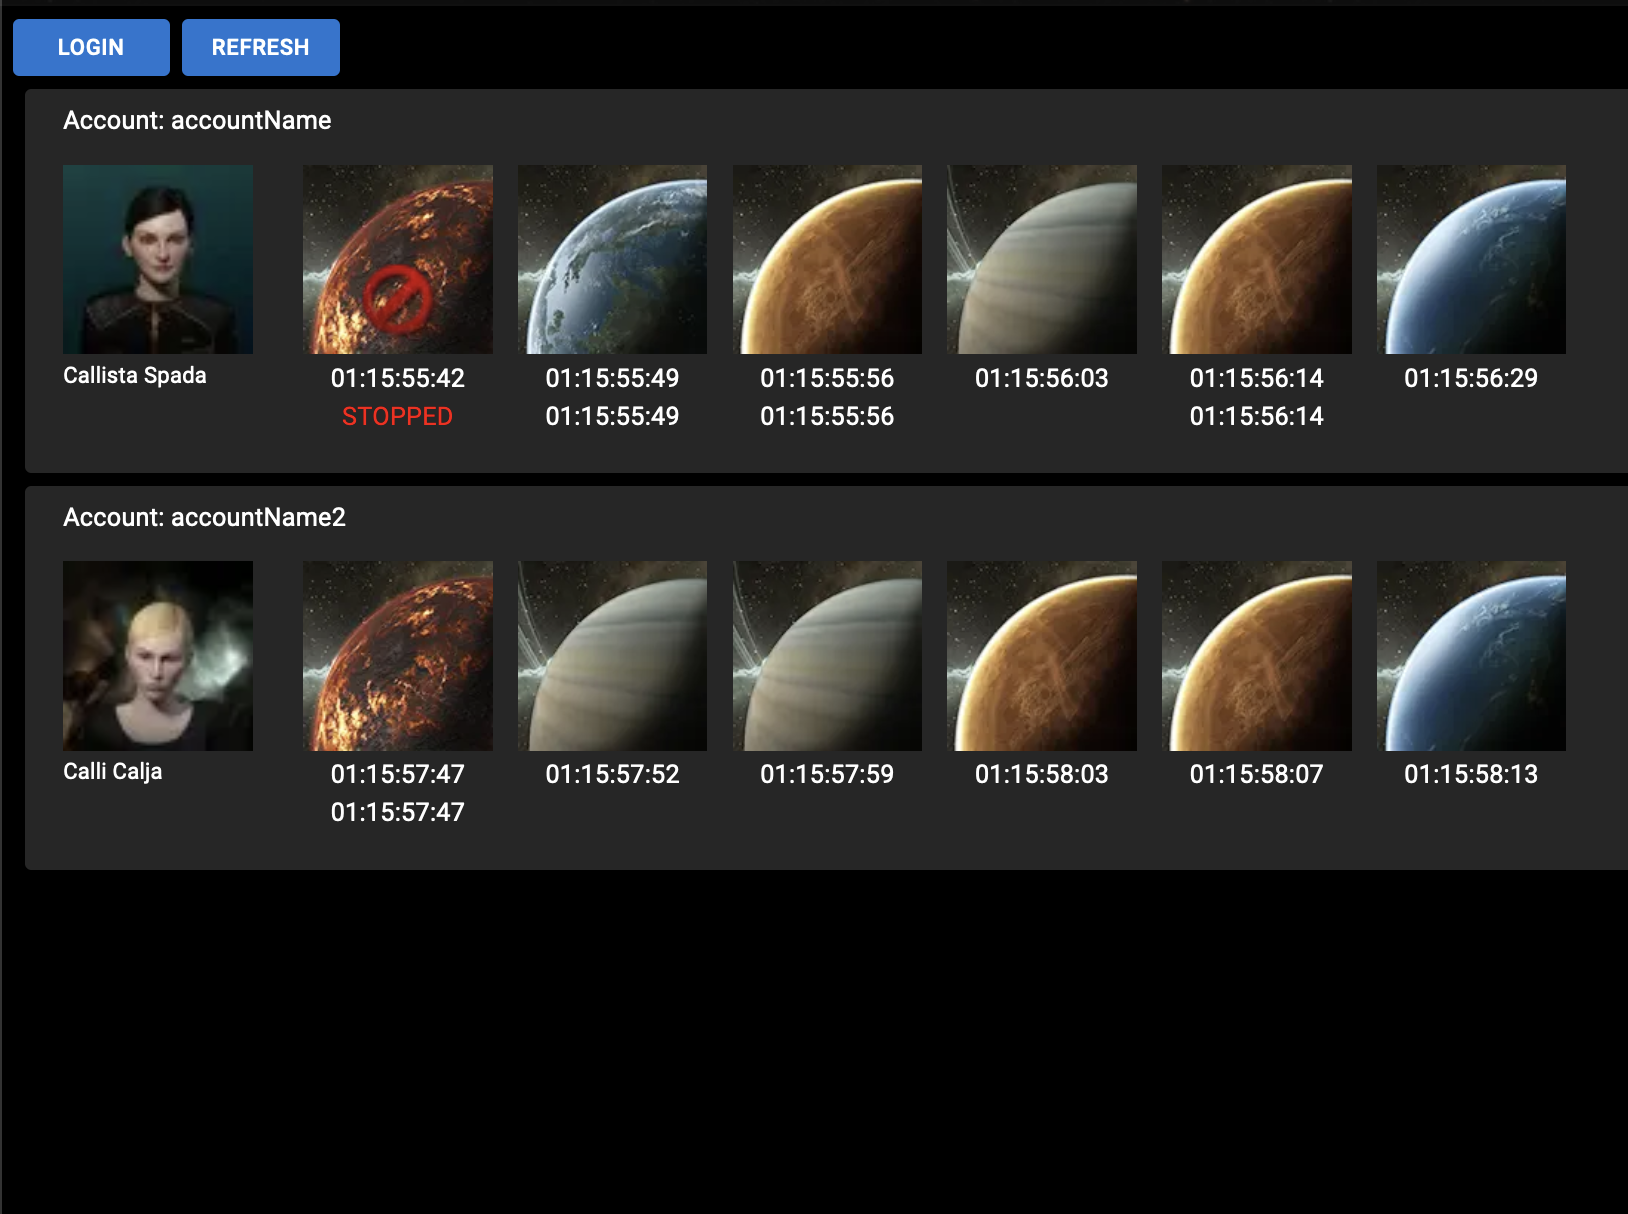
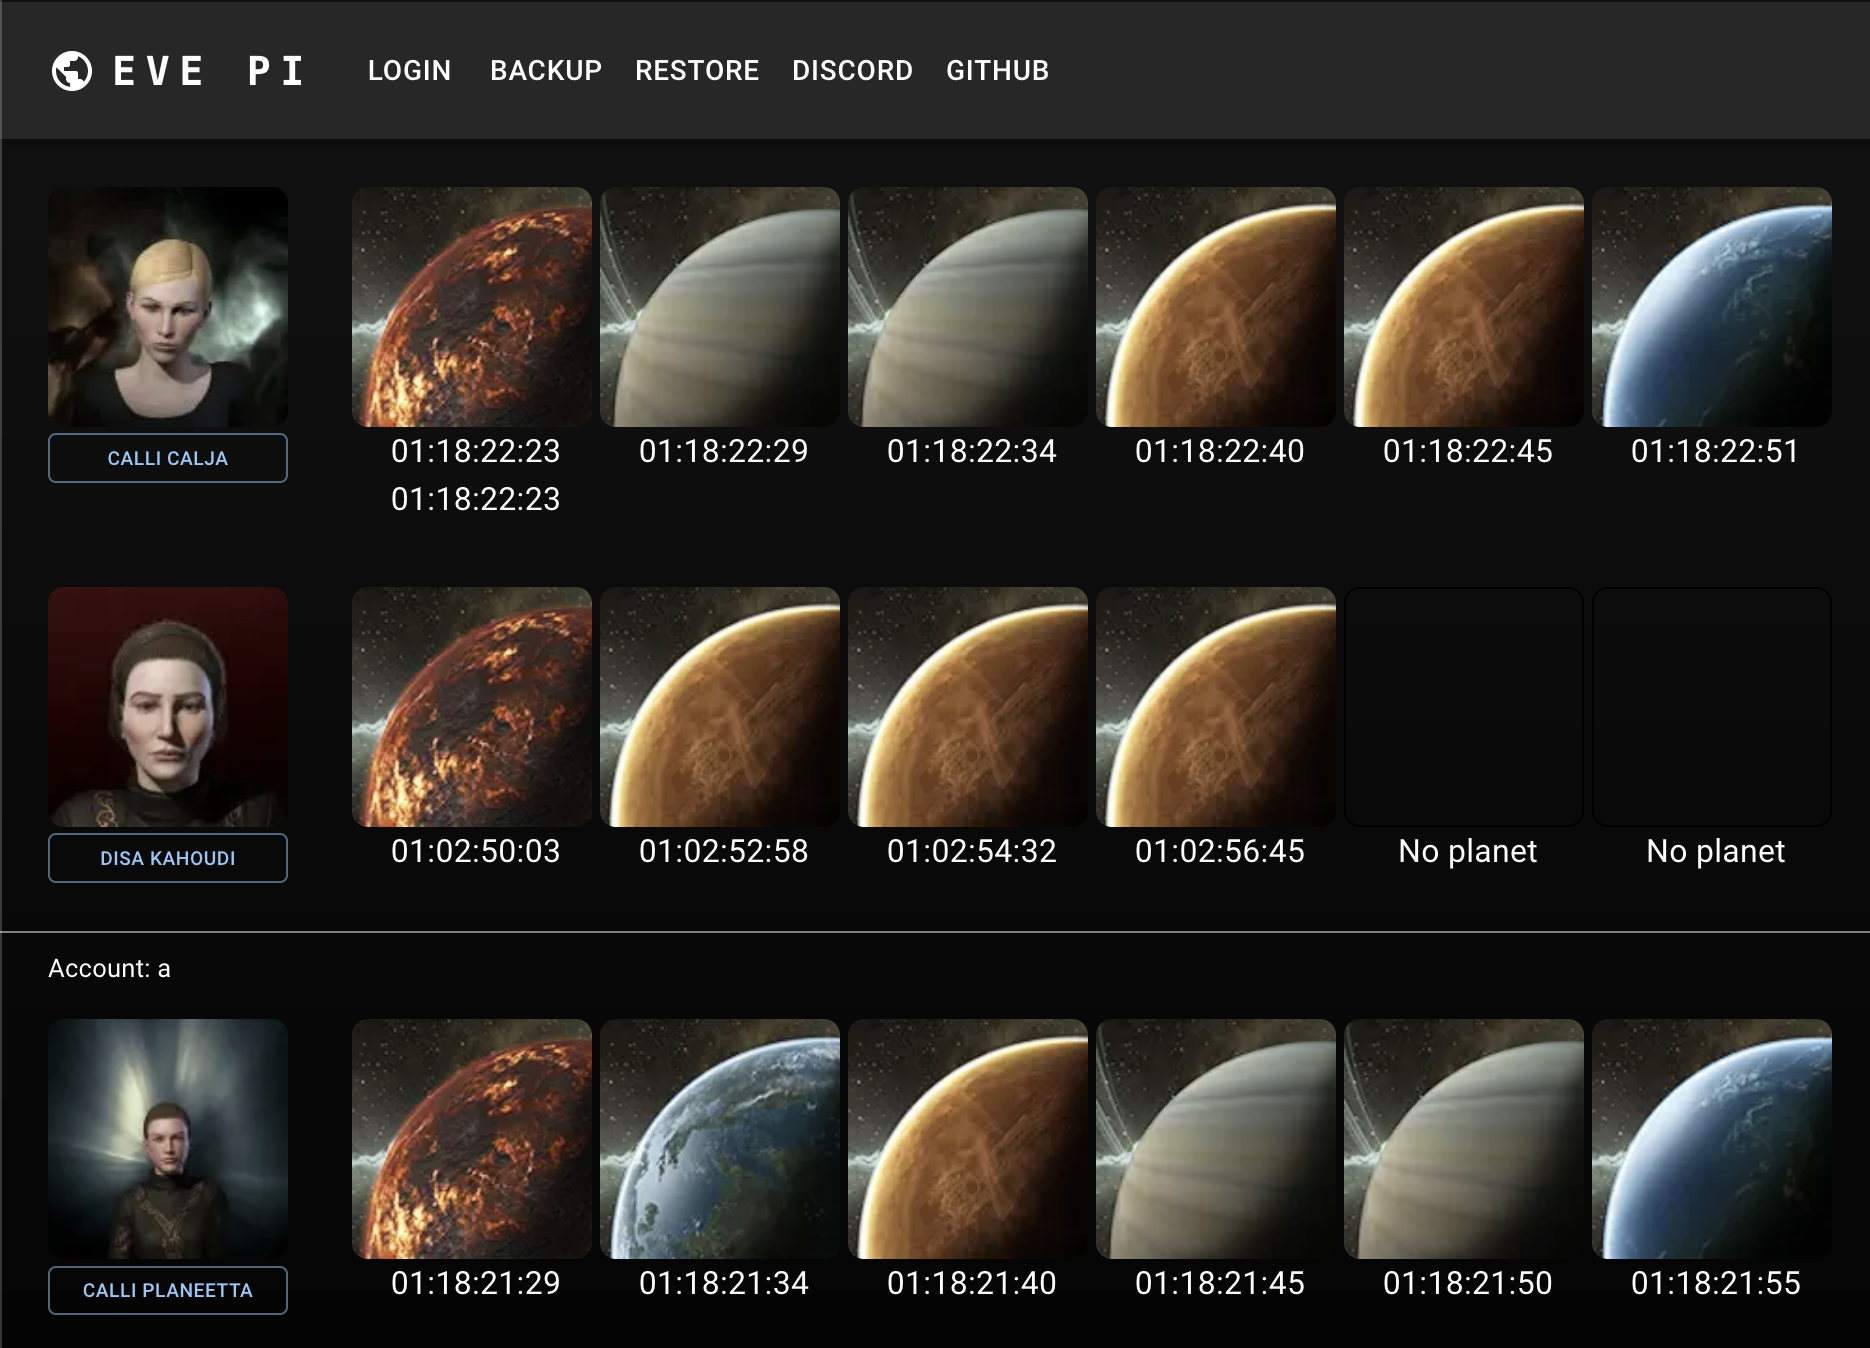
update top navigation and overal theme

diff --git a/src/app/components/AppBar/AppBar.tsx b/src/app/components/AppBar/AppBar.tsx
@@ -1,0 +1,131 @@
+import * as React from "react";
+import AppBar from "@mui/material/AppBar";
+import Box from "@mui/material/Box";
+import Toolbar from "@mui/material/Toolbar";
+import IconButton from "@mui/material/IconButton";
+import Typography from "@mui/material/Typography";
+import Menu from "@mui/material/Menu";
+import MenuIcon from "@mui/icons-material/Menu";
+import Container from "@mui/material/Container";
+import MenuItem from "@mui/material/MenuItem";
+import PublicIcon from "@mui/icons-material/Public";
+import { LoginButton } from "../Login/LoginButton";
+import { DowloadButton } from "../Backup/DowloadButton";
+import { UploadButton } from "../Backup/UploadButton";
+import { DiscordButton } from "../Discord/DiscordButton";
+import { GitHubButton } from "../Github/GitHubButton";
+
+function ResponsiveAppBar() {
+  const [anchorElNav, setAnchorElNav] = React.useState<null | HTMLElement>(
+    null
+  );
+
+  const handleOpenNavMenu = (event: React.MouseEvent<HTMLElement>) => {
+    setAnchorElNav(event.currentTarget);
+  };
+
+  const handleCloseNavMenu = () => {
+    setAnchorElNav(null);
+  };
+
+  return (
+    <AppBar position="static">
+      <Container maxWidth="xl">
+        <Toolbar disableGutters>
+          <PublicIcon sx={{ display: { xs: "none", md: "flex" }, mr: 1 }} />
+          <Typography
+            variant="h6"
+            noWrap
+            component="a"
+            href="/"
+            sx={{
+              mr: 2,
+              display: { xs: "none", md: "flex" },
+              fontFamily: "monospace",
+              fontWeight: 700,
+              letterSpacing: ".3rem",
+              color: "inherit",
+              textDecoration: "none",
+            }}
+          >
+            EVE PI
+          </Typography>
+
+          <Box sx={{ flexGrow: 1, display: { xs: "flex", md: "none" } }}>
+            <IconButton
+              size="large"
+              aria-label="account of current user"
+              aria-controls="menu-appbar"
+              aria-haspopup="true"
+              onClick={handleOpenNavMenu}
+              color="inherit"
+            >
+              <MenuIcon />
+            </IconButton>
+            <Menu
+              id="menu-appbar"
+              anchorEl={anchorElNav}
+              anchorOrigin={{
+                vertical: "bottom",
+                horizontal: "left",
+              }}
+              keepMounted
+              transformOrigin={{
+                vertical: "top",
+                horizontal: "left",
+              }}
+              open={Boolean(anchorElNav)}
+              onClose={handleCloseNavMenu}
+              sx={{
+                display: { xs: "block", md: "none" },
+              }}
+            >
+              <MenuItem onClick={handleCloseNavMenu}>
+                <LoginButton />
+              </MenuItem>
+              <MenuItem onClick={handleCloseNavMenu}>
+                <DowloadButton />
+              </MenuItem>
+              <MenuItem onClick={handleCloseNavMenu}>
+                <UploadButton />
+              </MenuItem>
+              <MenuItem onClick={handleCloseNavMenu}>
+                <DiscordButton />
+              </MenuItem>
+              <MenuItem onClick={handleCloseNavMenu}>
+                <GitHubButton />
+              </MenuItem>
+            </Menu>
+          </Box>
+          <PublicIcon sx={{ display: { xs: "flex", md: "none" }, mr: 1 }} />
+          <Typography
+            variant="h5"
+            noWrap
+            component="a"
+            href=""
+            sx={{
+              mr: 2,
+              display: { xs: "flex", md: "none" },
+              flexGrow: 1,
+              fontFamily: "monospace",
+              fontWeight: 700,
+              letterSpacing: ".3rem",
+              color: "inherit",
+              textDecoration: "none",
+            }}
+          >
+            EVE PI
+          </Typography>
+          <Box sx={{ flexGrow: 1, display: { xs: "none", md: "flex" } }}>
+            <LoginButton />
+            <DowloadButton />
+            <UploadButton />
+            <DiscordButton />
+            <GitHubButton />
+          </Box>
+        </Toolbar>
+      </Container>
+    </AppBar>
+  );
+}
+export default ResponsiveAppBar;

diff --git a/src/app/components/MainGrid.tsx b/src/app/components/MainGrid.tsx
@@ -1,5 +1,12 @@
 import { useContext } from "react";
-import { Box, Grid, Stack } from "@mui/material";
+import {
+  Box,
+  CssBaseline,
+  Grid,
+  Stack,
+  ThemeProvider,
+  createTheme,
+} from "@mui/material";
 import { LoginButton } from "./Login/LoginButton";
 import { AccountCard } from "./Account/AccountCard";
 import { AccessToken } from "@/types";
@@ -8,10 +15,17 @@ import { DowloadButton } from "./Backup/DowloadButton";
 import { DiscordButton } from "./Discord/DiscordButton";
 import { GitHubButton } from "./Github/GitHubButton";
 import { UploadButton } from "./Backup/UploadButton";
+import ResponsiveAppBar from "./AppBar/AppBar";
 
 interface Grouped {
   [key: string]: AccessToken[];
 }
+
+const darkTheme = createTheme({
+  palette: {
+    mode: "dark",
+  },
+});
 
 export const MainGrid = ({ sessionReady }: { sessionReady: boolean }) => {
   const { characters } = useContext(CharacterContext);
@@ -23,29 +37,27 @@ export const MainGrid = ({ sessionReady }: { sessionReady: boolean }) => {
   }, {});
 
   return (
-    <Box sx={{ flexGrow: 1 }}>
-      <Grid container spacing={1}>
-        <Grid item xs={2}>
-          <Stack direction="row" spacing={1}>
-            <LoginButton />
-            <DowloadButton />
-            <UploadButton />
-            <DiscordButton />
-            <GitHubButton />
-          </Stack>
+    <ThemeProvider theme={darkTheme}>
+      <CssBaseline />
+      <Box sx={{ flexGrow: 1 }}>
+        <ResponsiveAppBar />
+        <Grid container spacing={1}>
+          <Grid item xs={2}>
+            <Stack direction="row" spacing={1}></Stack>
+          </Grid>
         </Grid>
-      </Grid>
-      <Grid container spacing={1}>
-        <Grid item xs={12}>
-          {Object.values(groupByAccount).map((g, id) => (
-            <AccountCard
-              key={`account-${id}-${g[0].account}`}
-              characters={g}
-              sessionReady={sessionReady}
-            />
-          ))}
+        <Grid container spacing={1}>
+          <Grid item xs={12}>
+            {Object.values(groupByAccount).map((g, id) => (
+              <AccountCard
+                key={`account-${id}-${g[0].account}`}
+                characters={g}
+                sessionReady={sessionReady}
+              />
+            ))}
+          </Grid>
         </Grid>
-      </Grid>
-    </Box>
+      </Box>
+    </ThemeProvider>
   );
 };

diff --git a/src/app/components/Login/LoginButton.tsx b/src/app/components/Login/LoginButton.tsx
@@ -1,4 +1,4 @@
-import { Box, Button } from "@mui/material";
+import { Box, Button, Tooltip } from "@mui/material";
 import { useState } from "react";
 import { LoginDialog } from "./LoginDialog";
 
@@ -6,13 +6,15 @@ export const LoginButton = () => {
   const [loginDialogOpen, setLoginDialogOpen] = useState(false);
   return (
     <Box>
-      <Button
-        style={{ width: "100%" }}
-        variant="contained"
-        onClick={() => setLoginDialogOpen(true)}
-      >
-        Login
-      </Button>
+      <Tooltip title="Login with your EVE characters to track your planets">
+        <Button
+          style={{ width: "100%" }}
+          sx={{ my: 2, color: "white", display: "block" }}
+          onClick={() => setLoginDialogOpen(true)}
+        >
+          Login
+        </Button>
+      </Tooltip>
       <LoginDialog
         open={loginDialogOpen}
         closeDialog={() => setLoginDialogOpen(false)}

diff --git a/src/app/components/Backup/DowloadButton.tsx b/src/app/components/Backup/DowloadButton.tsx
@@ -1,17 +1,20 @@
 import { CharacterContext, SessionContext } from "@/app/context/Context";
-import { Button } from "@mui/material";
+import { Button, Tooltip } from "@mui/material";
 import { useContext } from "react";
 
 export const DowloadButton = () => {
   const { characters } = useContext(CharacterContext);
   return (
-    <Button
-      href={`data:text/json;charset=utf-8,${encodeURIComponent(
-        JSON.stringify(characters)
-      )}`}
-      download={`eve-pi-characters.json`}
-    >
-      Backup
-    </Button>
+    <Tooltip title="Export your EVE PI list to transfer to another device or backup">
+      <Button
+        href={`data:text/json;charset=utf-8,${encodeURIComponent(
+          JSON.stringify(characters)
+        )}`}
+        download={`eve-pi-characters.json`}
+        sx={{ my: 2, color: "white", display: "block" }}
+      >
+        Backup
+      </Button>
+    </Tooltip>
   );
 };

diff --git a/src/app/components/Backup/UploadButton.tsx b/src/app/components/Backup/UploadButton.tsx
@@ -1,4 +1,4 @@
-import { Box, Button } from "@mui/material";
+import { Box, Button, Tooltip } from "@mui/material";
 import { useState } from "react";
 import { UploadDialog } from "./UploadDialog";
 
@@ -6,12 +6,15 @@ export const UploadButton = () => {
   const [uploadDialogOpen, setUploadDialogOpen] = useState(false);
   return (
     <Box>
-      <Button
-        style={{ width: "100%" }}
-        onClick={() => setUploadDialogOpen(true)}
-      >
-        Restore
-      </Button>
+      <Tooltip title="Upload your exported configuration to restore the PI list">
+        <Button
+          style={{ width: "100%" }}
+          onClick={() => setUploadDialogOpen(true)}
+          sx={{ my: 2, color: "white", display: "block" }}
+        >
+          Restore
+        </Button>
+      </Tooltip>
       <UploadDialog
         open={uploadDialogOpen}
         closeDialog={() => setUploadDialogOpen(false)}

diff --git a/src/app/components/Discord/DiscordButton.tsx b/src/app/components/Discord/DiscordButton.tsx
@@ -1,14 +1,17 @@
-import { Box, Button } from "@mui/material";
+import { Box, Button, Tooltip } from "@mui/material";
 export const DiscordButton = () => {
   return (
     <Box>
-      <Button
-        href="https://discord.gg/MDapvGyw"
-        target="_blank"
-        style={{ width: "100%" }}
-      >
-        Discord
-      </Button>
+      <Tooltip title="Come nerd out in discord about PI and this tool">
+        <Button
+          href="https://discord.gg/MDapvGyw"
+          target="_blank"
+          style={{ width: "100%" }}
+          sx={{ my: 2, color: "white", display: "block" }}
+        >
+          Discord
+        </Button>
+      </Tooltip>
     </Box>
   );
 };

diff --git a/src/app/components/Github/GitHubButton.tsx b/src/app/components/Github/GitHubButton.tsx
@@ -1,14 +1,17 @@
-import { Box, Button } from "@mui/material";
+import { Box, Button, Tooltip } from "@mui/material";
 export const GitHubButton = () => {
   return (
     <Box>
-      <Button
-        href="https://github.com/calli-eve/eve-pi"
-        target="_blank"
-        style={{ width: "100%" }}
-      >
-        GitHub
-      </Button>
+      <Tooltip title="Checkout the source of this app">
+        <Button
+          href="https://github.com/calli-eve/eve-pi"
+          target="_blank"
+          style={{ width: "100%" }}
+          sx={{ my: 2, color: "white", display: "block" }}
+        >
+          GitHub
+        </Button>
+      </Tooltip>
     </Box>
   );
 };

diff --git a/src/app/components/Account/AccountCard.tsx b/src/app/components/Account/AccountCard.tsx
@@ -13,10 +13,8 @@ export const AccountCard = ({
   return (
     <Box
       sx={{
-        background: "#262626",
         padding: 1,
-        borderRadius: 1,
-        margin: 1,
+        borderBottom: "solid 1px gray",
       }}
     >
       <Typography style={{ fontSize: "0.8rem" }} paddingLeft={2}>
